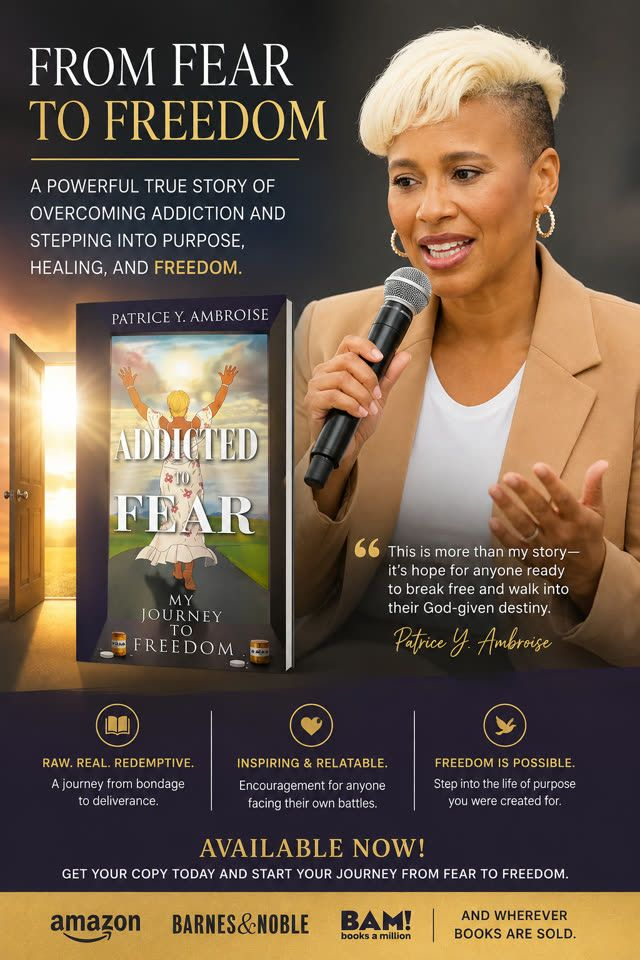
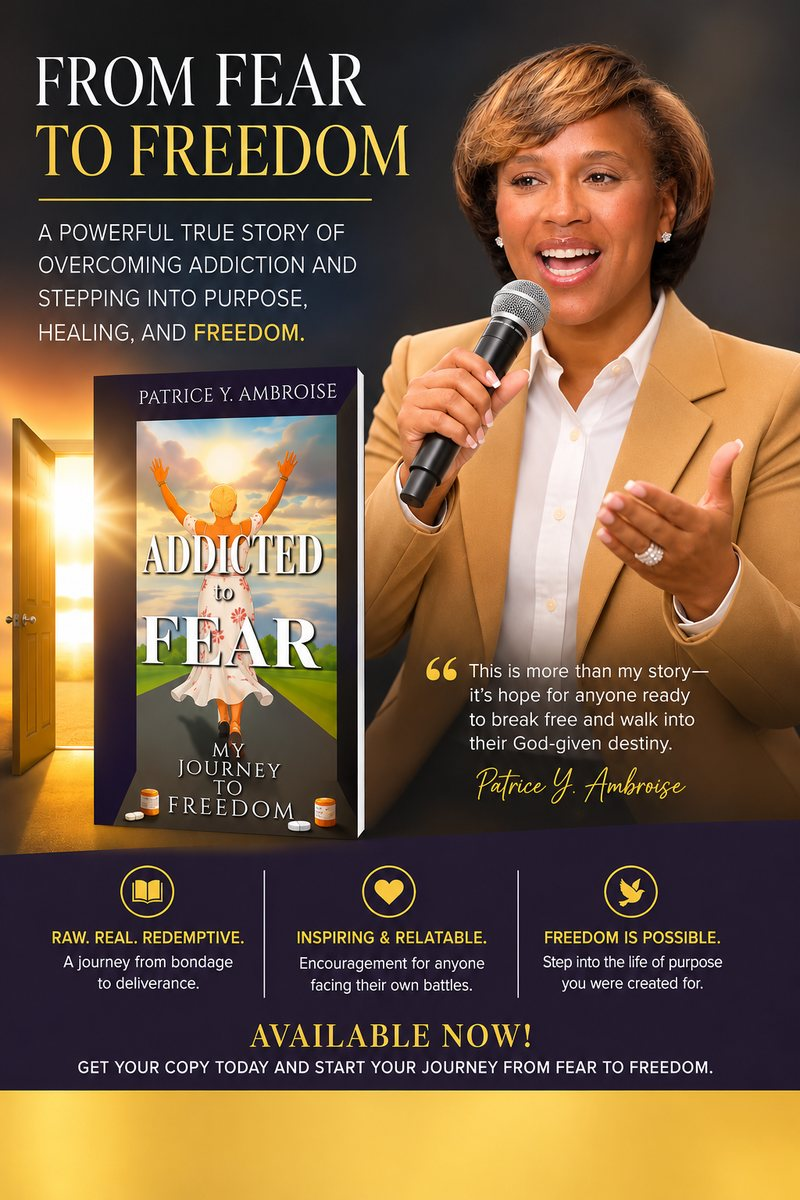
Replace book promo poster with new version featuring Patrice
- New poster in the "Get Your Copy" popup (all pages) and the home
  page book tile
- Media page book section now shows the poster instead of the plain cover
- Fix off-center book title on the Media page

Claude-Session: https://claude.ai/code/session_013hDHU5LBjc8PFakWY4cGeT

diff --git a/index.html b/index.html
@@ -246,7 +246,7 @@
     <div class="wrap">
       <div class="book-tile">
         <div class="book-tile-image">
-          <picture><source srcset="img/web/book_promo.webp" type="image/webp"><img src="img/web/book_promo.jpg" alt="Addicted to Fear: My Journey to Freedom &mdash; promotional poster" width="640" height="960" loading="lazy" decoding="async" /></picture>
+          <picture><source srcset="img/web/book_promo.webp" type="image/webp"><img src="img/web/book_promo.jpg" alt="Addicted to Fear: My Journey to Freedom &mdash; promotional poster" width="800" height="1200" loading="lazy" decoding="async" /></picture>
         </div>
         <div class="book-tile-body">
           <span class="eyebrow">From Fear to Freedom</span>
@@ -324,7 +324,7 @@
   <div class="modal" role="dialog" aria-modal="true" aria-labelledby="book-modal-title">
     <button type="button" class="modal-close" data-modal-close aria-label="Close">&times;</button>
     <div class="modal-image">
-      <picture><source srcset="img/web/book_promo.webp" type="image/webp"><img src="img/web/book_promo.jpg" alt="Addicted to Fear: My Journey to Freedom &mdash; promotional poster" width="640" height="960" loading="lazy" decoding="async" /></picture>
+      <picture><source srcset="img/web/book_promo.webp" type="image/webp"><img src="img/web/book_promo.jpg" alt="Addicted to Fear: My Journey to Freedom &mdash; promotional poster" width="800" height="1200" loading="lazy" decoding="async" /></picture>
     </div>
     <div class="modal-body">
       <span class="eyebrow">From Fear to Freedom</span>

diff --git a/media.html b/media.html
@@ -84,7 +84,7 @@
   <section class="book-block problem" id="book">
     <div class="wrap">
       <div class="book-cover">
-        <picture><source srcset="img/web/book.webp" type="image/webp"><img src="img/web/book.jpg" alt="Addicted to Fear: My Journey to Freedom, by Patrice Y. Ambroise" width="500" height="780" loading="lazy" decoding="async" /></picture>
+        <picture><source srcset="img/web/book_promo.webp" type="image/webp"><img src="img/web/book_promo.jpg" alt="Addicted to Fear: My Journey to Freedom &mdash; promotional poster" width="800" height="1200" loading="lazy" decoding="async" /></picture>
       </div>
       <div class="book-copy" style="text-align:left;">
         <span class="eyebrow">The Book</span>
@@ -140,7 +140,7 @@
   <div class="modal" role="dialog" aria-modal="true" aria-labelledby="book-modal-title">
     <button type="button" class="modal-close" data-modal-close aria-label="Close">&times;</button>
     <div class="modal-image">
-      <picture><source srcset="img/web/book_promo.webp" type="image/webp"><img src="img/web/book_promo.jpg" alt="Addicted to Fear: My Journey to Freedom &mdash; promotional poster" width="640" height="960" loading="lazy" decoding="async" /></picture>
+      <picture><source srcset="img/web/book_promo.webp" type="image/webp"><img src="img/web/book_promo.jpg" alt="Addicted to Fear: My Journey to Freedom &mdash; promotional poster" width="800" height="1200" loading="lazy" decoding="async" /></picture>
     </div>
     <div class="modal-body">
       <span class="eyebrow">From Fear to Freedom</span>

diff --git a/resources.html b/resources.html
@@ -238,7 +238,7 @@
   <div class="modal" role="dialog" aria-modal="true" aria-labelledby="book-modal-title">
     <button type="button" class="modal-close" data-modal-close aria-label="Close">&times;</button>
     <div class="modal-image">
-      <picture><source srcset="img/web/book_promo.webp" type="image/webp"><img src="img/web/book_promo.jpg" alt="Addicted to Fear: My Journey to Freedom &mdash; promotional poster" width="640" height="960" loading="lazy" decoding="async" /></picture>
+      <picture><source srcset="img/web/book_promo.webp" type="image/webp"><img src="img/web/book_promo.jpg" alt="Addicted to Fear: My Journey to Freedom &mdash; promotional poster" width="800" height="1200" loading="lazy" decoding="async" /></picture>
     </div>
     <div class="modal-body">
       <span class="eyebrow">From Fear to Freedom</span>

diff --git a/assets/css/site.css b/assets/css/site.css
@@ -659,3 +659,4 @@ input, select, textarea, .capture input, .modal-form input, .field input, .field
   .final-photo{height:auto;min-height:300px;}
   .final-photo img{object-position:center 15%;}
 }
+.book-copy .book-title{margin-inline:0;max-width:none;text-align:left;}
